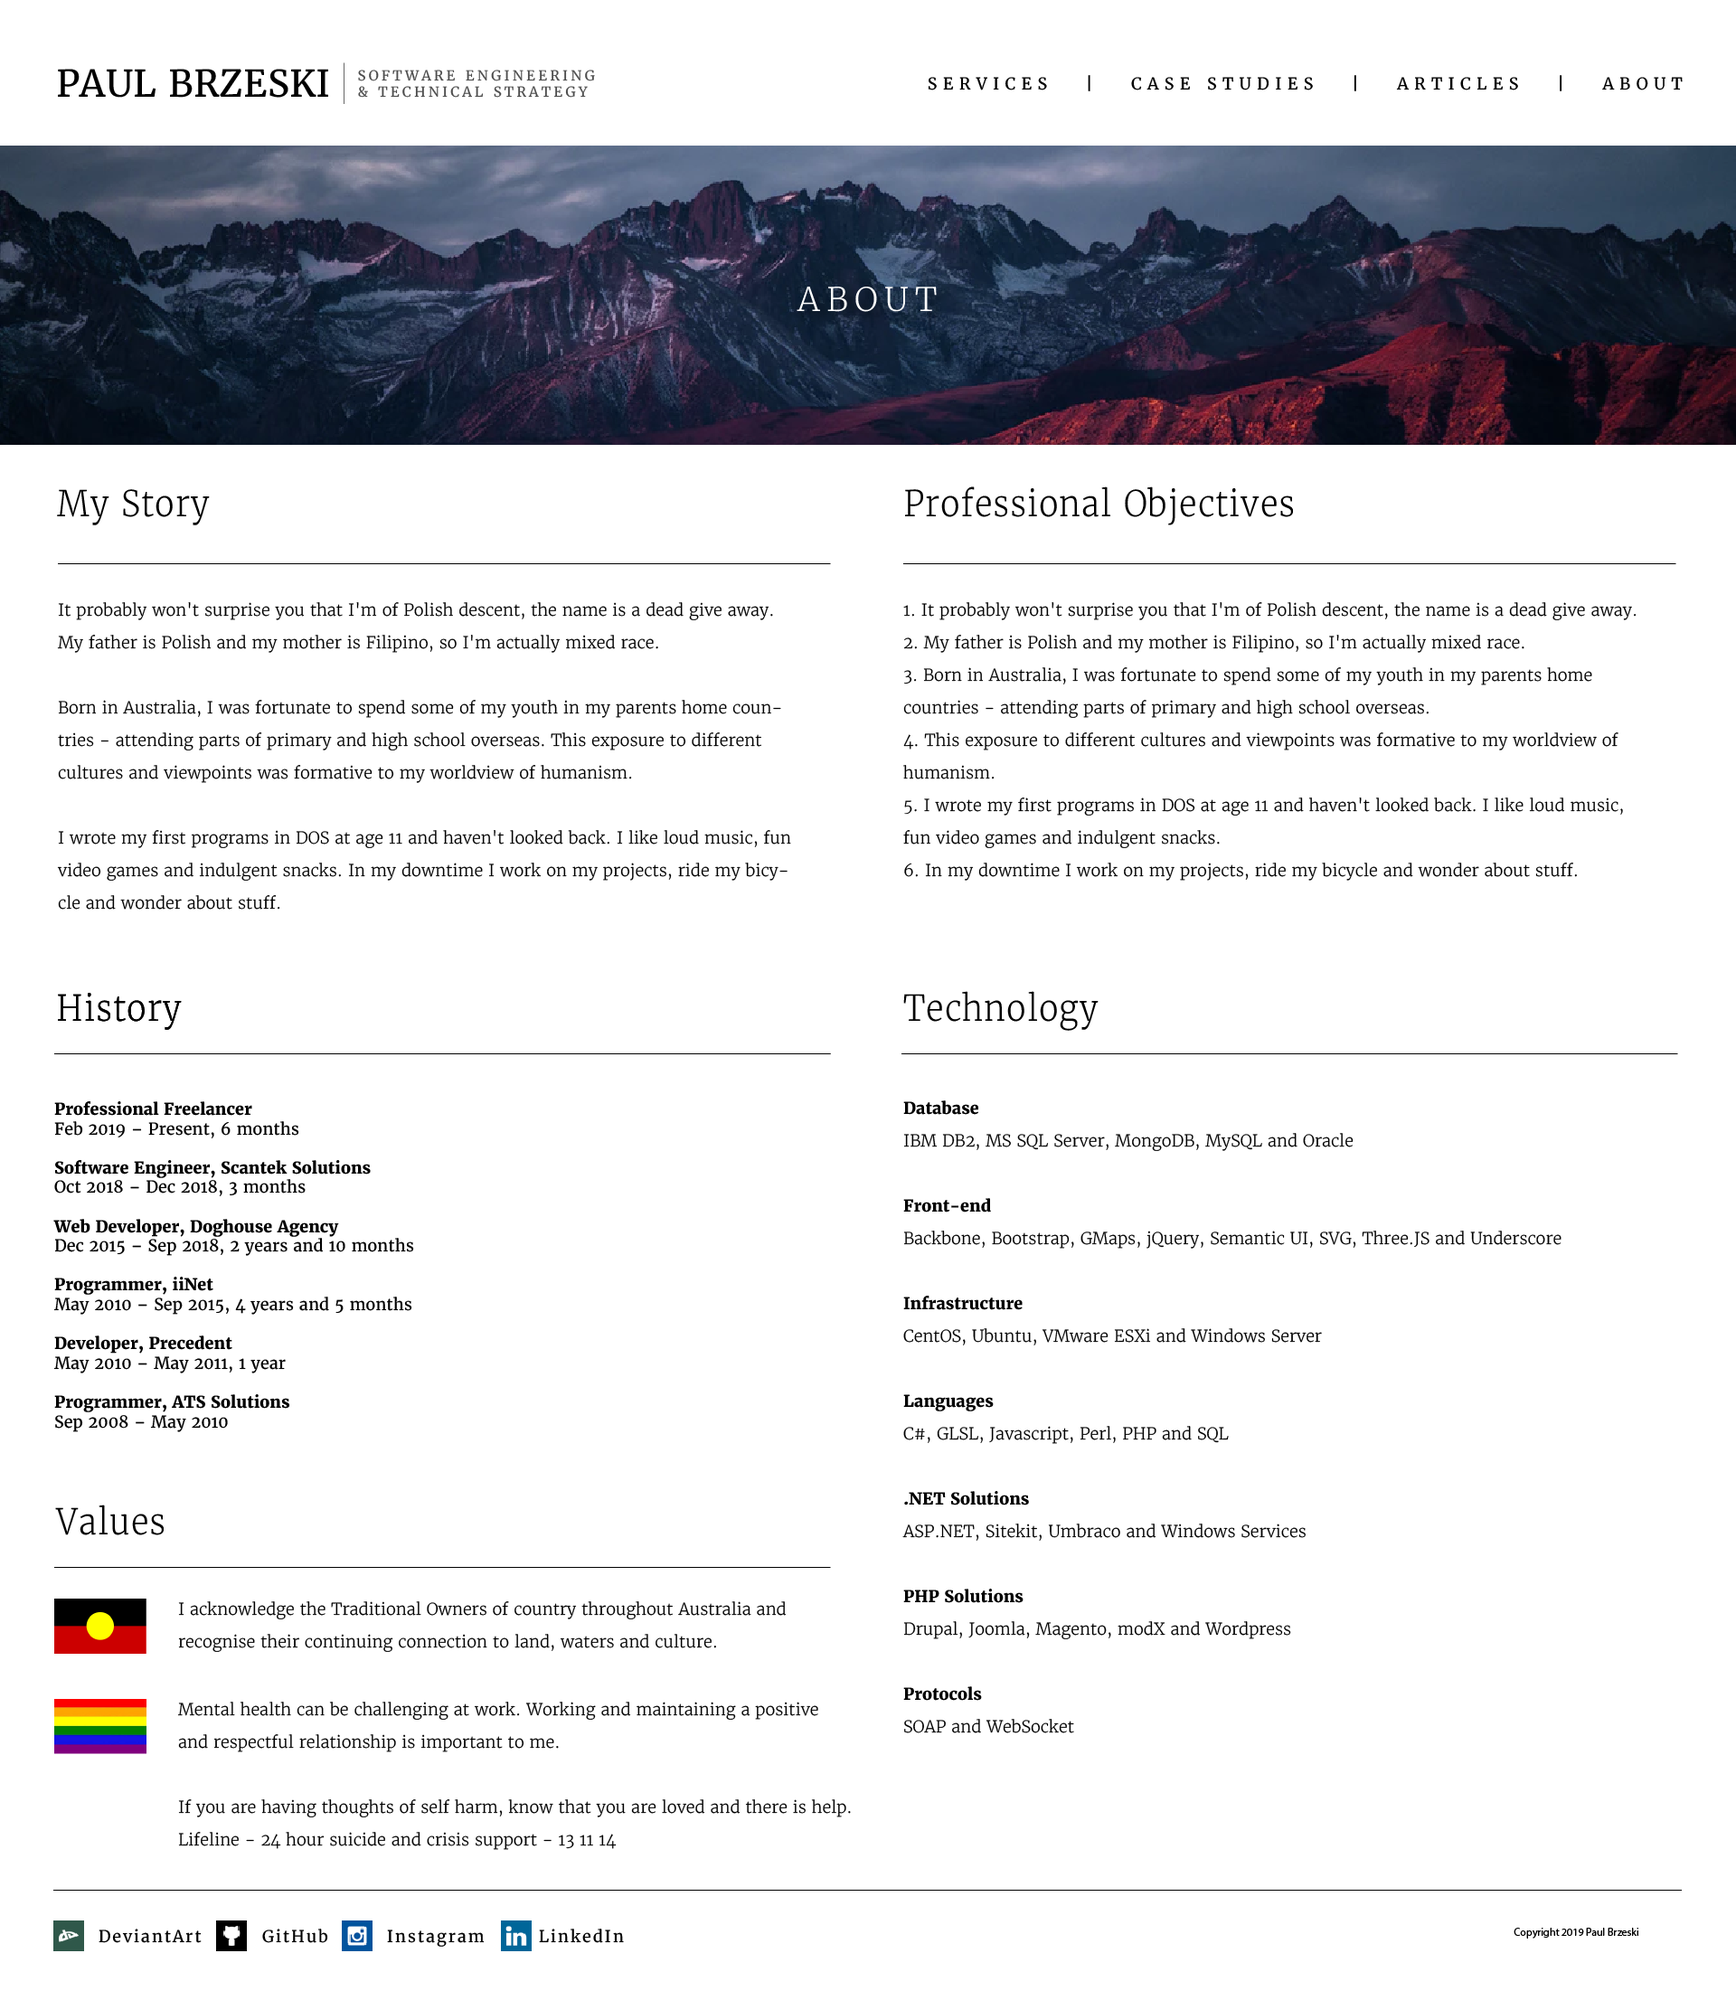
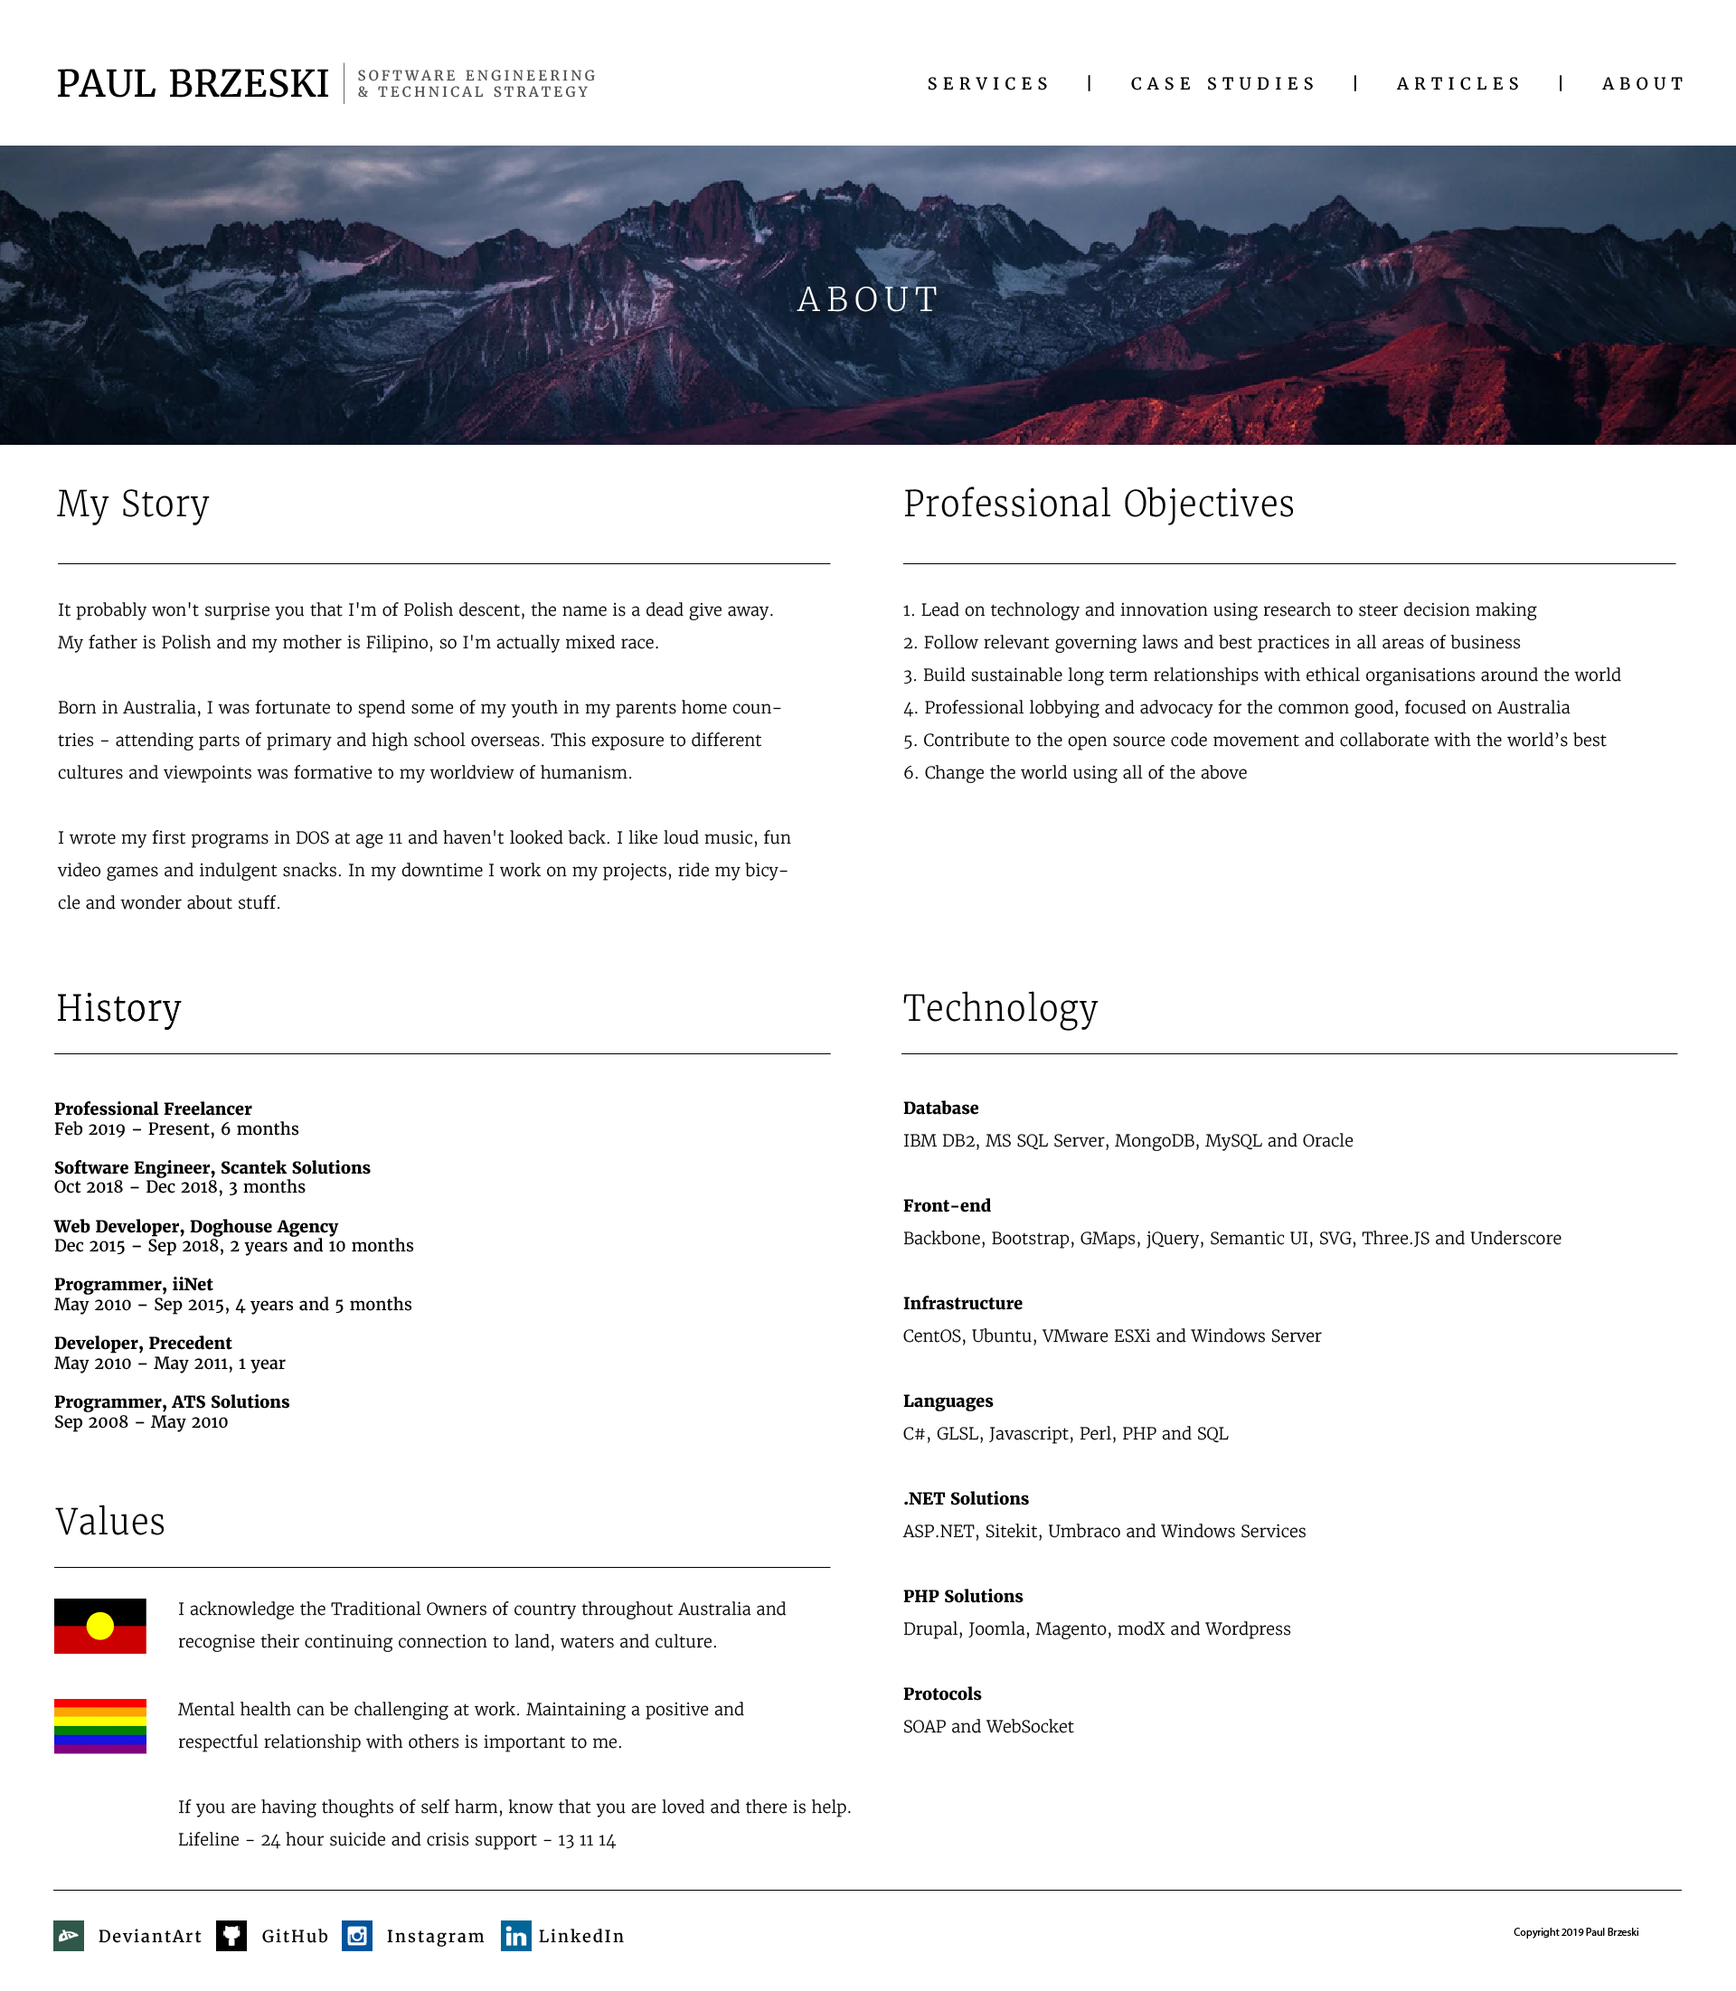
Finished styling main pages on desktop

Changed region(s): [[0.5312, 0.2779, 0.9062, 0.4323], [0.125, 0.8647, 0.3125, 0.8955], [0.3125, 0.8338, 0.4375, 0.8647]]

diff --git a/articles.html b/articles.html
@@ -24,19 +24,23 @@
     </header>
     <div id="articles">
       <div class="ui grid three column wide">
-        <div class="row">
-          <div class="column">
+        <div class="row main">
+          <div class="column sixteen wide">
             <div class="ui grid">
-              <div class="column nine wide"><a href="https://medium.com/@mail_59849/windows-10-review-2018-d343f2846d74"><img src="/assets/thumb1.PNG"></a></div>
-              <div class="column seven wide"><a href="https://medium.com/@mail_59849/windows-10-review-2018-d343f2846d74">
-                  <h3>Windows 10 Review</h3></a>
-                <p>Fuck. That is a good word to describe this operating system and I hope that this article takes your mind off some of the crap we are all putting up with at home and at work. Windows 10 has been great for Apple, that’s for sure.</p>
+              <div class="ui grid">
+                <div class="column five wide"><a href="https://medium.com/@mail_59849/windows-10-review-2018-d343f2846d74"><img class="ui image fluid" src="/assets/thumb1.PNG"></a></div>
+                <div class="column eleven wide"><a href="https://medium.com/@mail_59849/windows-10-review-2018-d343f2846d74">
+                    <h3>Windows 10 Review</h3></a>
+                  <p>Fuck. That is a good word to describe this operating system and I hope that this article takes your mind off some of the crap we are all putting up with at home and at work. Windows 10 has been great for Apple, that’s for sure.</p>
+                </div>
               </div>
             </div>
           </div>
+        </div>
+        <div class="row">
           <div class="column">
             <div class="ui grid">
-              <div class="column nine wide"><a href="https://medium.com/@mail_59849/set-raytracers-to-maximum-77a9f0484441"><img src="/assets/thumb2.PNG"></a></div>
+              <div class="column nine wide"><a href="https://medium.com/@mail_59849/set-raytracers-to-maximum-77a9f0484441"><img class="ui image fluid" src="/assets/thumb2.PNG"></a></div>
               <div class="column seven wide"><a href="https://medium.com/@mail_59849/set-raytracers-to-maximum-77a9f0484441">
                   <h3>Set Raytracers to Maximum</h3></a>
                 <p>So I was casually watching a Youtube video about dogfighting in space. They made a great point that guns on fighters should be close instead of far apart — this is something that I struggled to design for when..</p>
@@ -45,10 +49,19 @@
           </div>
           <div class="column">
             <div class="ui grid">
-              <div class="column nine wide"><a href="https://medium.com/@mail_59849/how-deep-is-the-river-if-you-cannot-see-the-bottom-40910b0fd80c"><img src="/assets/thumb3.PNG"></a></div>
+              <div class="column nine wide"><a href="https://medium.com/@mail_59849/how-deep-is-the-river-if-you-cannot-see-the-bottom-40910b0fd80c"><img class="ui image fluid" src="/assets/thumb3.PNG"></a></div>
               <div class="column seven wide"><a href="https://medium.com/@mail_59849/how-deep-is-the-river-if-you-cannot-see-the-bottom-40910b0fd80c">
                   <h3>How deep is the river if you cannot see the bottom?</h3></a>
                 <p>Upgrading your computer isn’t too hard — you work out where you can get good gains or if the whole setup needs a replacement. Unfortunately the latter option isn’t available for the human brain.</p>
+              </div>
+            </div>
+          </div>
+          <div class="column">
+            <div class="ui grid">
+              <div class="column nine wide"><a href="https://medium.com/@mail_59849/creating-good-tools-for-a-brave-new-world-a85fa2da43cf"><img class="ui image fluid" src="/assets/thumb4.PNG"></a></div>
+              <div class="column seven wide"><a href="https://medium.com/@mail_59849/creating-good-tools-for-a-brave-new-world-a85fa2da43cf">
+                  <h3>Creating good tools for a brave new world</h3></a>
+                <p>I’m building a 2D/3D hybrid graphic design tool called Manifold. In this article I’m going to discuss the approach I’m taking in order to fit it into the workflow that I need for building games. I see this problem from a “recipe” perspective — what do I want the process to look like and what tools do I need to execute it.</p>
               </div>
             </div>
           </div>
@@ -56,16 +69,7 @@
         <div class="row">
           <div class="column">
             <div class="ui grid">
-              <div class="column nine wide"><a href="https://medium.com/@mail_59849/creating-good-tools-for-a-brave-new-world-a85fa2da43cf"><img src="/assets/thumb4.PNG"></a></div>
-              <div class="column seven wide"><a href="https://medium.com/@mail_59849/creating-good-tools-for-a-brave-new-world-a85fa2da43cf">
-                  <h3>Creating good tools for a brave new world</h3></a>
-                <p>I’m building a 2D/3D hybrid graphic design tool called Manifold. In this article I’m going to discuss the approach I’m taking in order to fit it into the workflow that I need for building games. I see this problem from a “recipe” perspective — what do I want the process to look like and what tools do I need to execute it.</p>
-              </div>
-            </div>
-          </div>
-          <div class="column">
-            <div class="ui grid">
-              <div class="column nine wide"><a href="https://medium.com/@mail_59849/my-angel-is-the-manifold-d0b718d03071"><img src="/assets/thumb5.PNG"></a></div>
+              <div class="column nine wide"><a href="https://medium.com/@mail_59849/my-angel-is-the-manifold-d0b718d03071"><img class="ui image fluid" src="/assets/thumb5.PNG"></a></div>
               <div class="column seven wide"><a href="https://medium.com/@mail_59849/my-angel-is-the-manifold-d0b718d03071">
                   <h3>My angel is the manifold</h3></a>
                 <p>Naming is the most important decision in a new open source project. It needs to convey a meaning, be ubiquitous, unique, low GI, etc. I’m coming up to the 5th anniversary of developing Langenium and I’m actually further away from a playable game than the early days of the project.</p>
@@ -74,7 +78,7 @@
           </div>
           <div class="column">
             <div class="ui grid">
-              <div class="column nine wide"><a href="https://medium.com/@mail_59849/in-order-to-save-time-you-must-first-invent-the-universe-dcb30e67418"><img src="/assets/thumb6.PNG"></a></div>
+              <div class="column nine wide"><a href="https://medium.com/@mail_59849/in-order-to-save-time-you-must-first-invent-the-universe-dcb30e67418"><img class="ui image fluid" src="/assets/thumb6.PNG"></a></div>
               <div class="column seven wide"><a href="https://medium.com/@mail_59849/in-order-to-save-time-you-must-first-invent-the-universe-dcb30e67418">
                   <h3>In order to save time, you must first invent the universe</h3></a>
                 <p>One of the hardest parts of developing a 3D game is coming up with assets such as models, textures and even concept art itself. This is especially hard if you suck at 3D modelling and frankly don’t have time for it.</p>

diff --git a/about.html b/about.html
@@ -31,23 +31,43 @@
             <p>Born in Australia, I was fortunate to spend some of my youth in my parents home countries - attending parts of primary and high school overseas. This exposure to different cultures and viewpoints was formative to my worldview of humanism.</p>
             <p>I wrote my first programs in DOS at age 11 and haven't looked back. I like loud music, fun video games and indulgent snacks. In my downtime I work on my projects, ride my bicycle and wonder about stuff.</p>
             <h2 class="ui dividing header">History</h2>
-            <p>Starting as a data entry clerk for an ISP called Westnet, I found myself understanding the systems around me and quickly ascended in the ranks to become a supervisor within the Provisioning team. Liaising with developers in that capacity led me to realize I could pursue my programming interests as a career.</p>
-            <p>After quitting the call center, I went to TAFE however my course got cancelled halfway through the year. I was fortunate that a customer at the cafe I worked in needed help with a shopping cart. I fixed the bug with ease and was offered my first full time job as a programmer.</p>
-            <p>Over a decade later, I have a combination of experiences as both a web developer in agency environments and software engineer in a corporate environment. I am proud of having a countless list of completed projects and examples of good work and value given to my employers and clients alike in that time.</p>
+            <h3>Professional Freelancer</h3>
+            <p>Feb 2019 – Present, 6 months</p>
+            <h3>Software Engineer, Scantek Solutions</h3>
+            <p>Oct 2018 – Dec 2018, 3 months</p>
+            <h3>Web Developer, Doghouse Agency</h3>
+            <p>Dec 2015 – Sep 2018, 2 years and 10 months</p>
+            <h3>Programmer, iiNet</h3>
+            <p>May 2010 – Sep 2015, 4 years and 5 months</p>
+            <h3>Developer, Precedent</h3>
+            <p>May 2010 – May 2011, 1 year</p>
+            <h3>Programmer, ATS Solutions</h3>
+            <p>Sep 2008 – May 2010</p>
             <h2 class="ui dividing header">Values</h2>
-            <p>Starting as a data entry clerk for an ISP called Westnet, I found myself understanding the systems around me and quickly ascended in the ranks to become a supervisor within the Provisioning team. Liaising with developers in that capacity led me to realize I could pursue my programming interests as a career.</p>
-            <p>After quitting the call center, I went to TAFE however my course got cancelled halfway through the year. I was fortunate that a customer at the cafe I worked in needed help with a shopping cart. I fixed the bug with ease and was offered my first full time job as a programmer.</p>
-            <p>Over a decade later, I have a combination of experiences as both a web developer in agency environments and software engineer in a corporate environment. I am proud of having a countless list of completed projects and examples of good work and value given to my employers and clients alike in that time.</p>
+            <div class="ui grid">
+              <div class="row">
+                <div class="column three wide"><img class="ui image fluid" src="/assets/aboriginal-flag.png"></div>
+                <div class="column thirteen wide">
+                  <p>I acknowledge the Traditional Owners of country throughout Australia and recognise their continuing connection to land, waters and culture.</p>
+                </div>
+              </div>
+              <div class="row">
+                <div class="column three wide"><img class="ui image fluid" src="/assets/pride-flag.jpg"></div>
+                <div class="column thirteen wide">
+                  <p>It is important to me that working relationships are respectful, positive and inclusive. Emotional well-being and mental health means as much to me as the nuts and bolts of business and the dollars and cents of economics.</p>
+                </div>
+              </div>
+            </div>
           </div>
           <div class="column">
             <h2 class="ui dividing header">Professional Objectives</h2>
             <ol class="ui list">
-              <li class="item">It probably won't surprise you that I'm of Polish descent, the name is a dead give away.</li>
-              <li class="item">It probably won't surprise you that I'm of Polish descent, the name is a dead give away.</li>
-              <li class="item">It probably won't surprise you that I'm of Polish descent, the name is a dead give away.</li>
-              <li class="item">It probably won't surprise you that I'm of Polish descent, the name is a dead give away.</li>
-              <li class="item">It probably won't surprise you that I'm of Polish descent, the name is a dead give away.</li>
-              <li class="item">It probably won't surprise you that I'm of Polish descent, the name is a dead give away.</li>
+              <li class="item">Lead on technology and innovation using research to steer decision making</li>
+              <li class="item">Follow relevant governing laws and best practices in all areas of business</li>
+              <li class="item">Build sustainable long term relationships with ethical organisations around the world</li>
+              <li class="item">Professional lobbying and advocacy for the common good, focused on Australia</li>
+              <li class="item">Contribute to the open source code movement and collaborate with the world’s best</li>
+              <li class="item">Change the world using all of the above</li>
             </ol>
             <h2 class="ui dividing header">Technology</h2>
             <h3>Database</h3>

diff --git a/dist/articles.css b/dist/articles.css
@@ -5,3 +5,22 @@
   width: 80%;
   margin: 0 auto;
 }
+#articles h3 {
+  font-weight: 300;
+  color: #000;
+  margin: 0 0 1em 0;
+}
+#articles .row.main {
+  padding: 4em;
+}
+#articles .row.main h3 {
+  padding: 1em 0;
+  font-size: 2.4em;
+}
+#articles .row.main p {
+  font-size: 1.4em;
+  line-height: 2.1em;
+}
+#articles p {
+  line-height: 2em;
+}

diff --git a/dist/case-studies.css b/dist/case-studies.css
@@ -12,7 +12,7 @@
 #case_studies .item h3 {
   font-size: 2.4em;
   font-weight: 300;
-  margin: 0 0 2em 0;
+  margin: 0 0 1em 0;
   letter-spacing: 0.01em;
   color: #000;
 }
